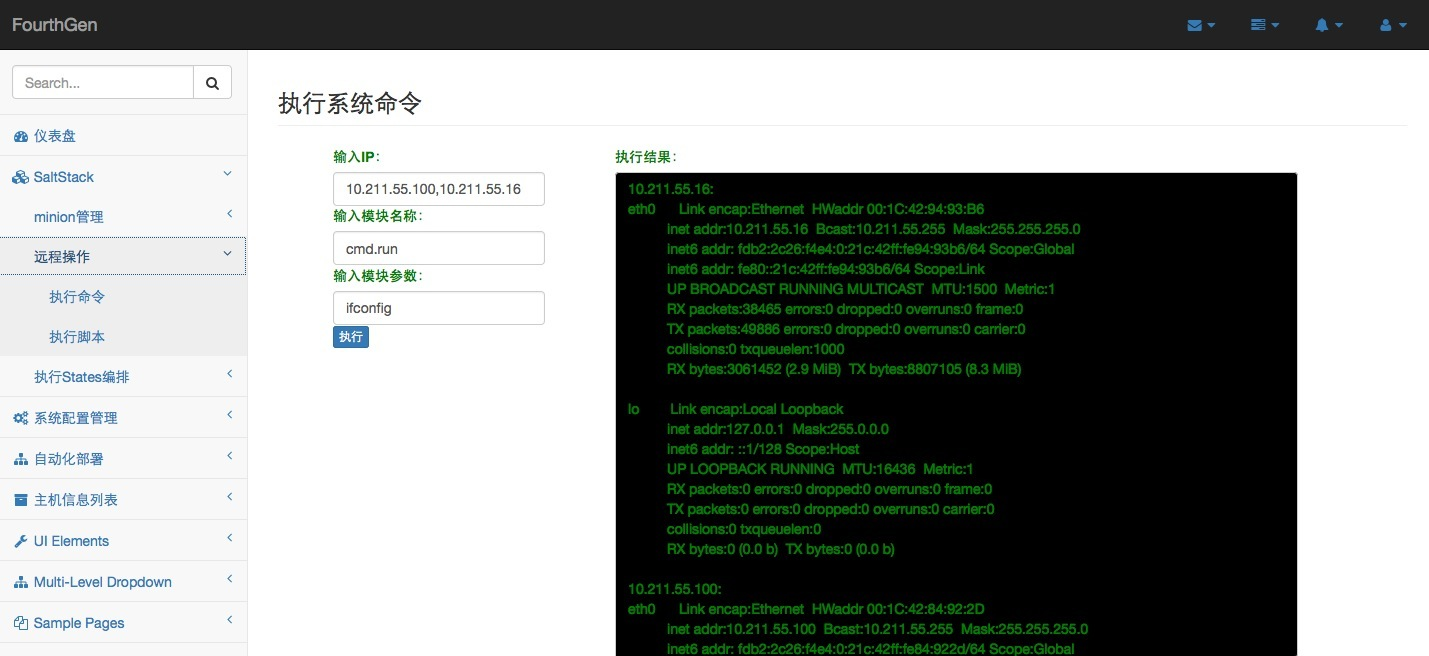
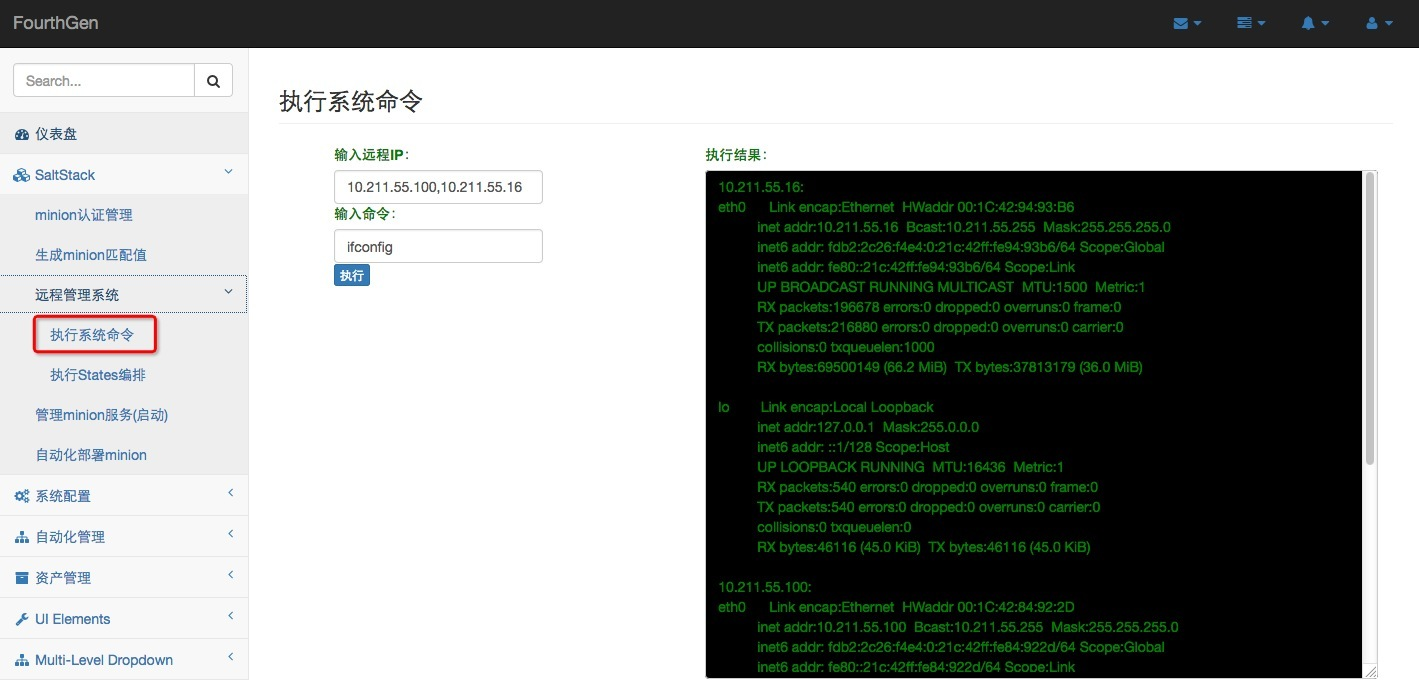
更新web截图

diff --git a/README.md b/README.md
@@ -2,8 +2,14 @@
 #截图
 minion认证管理
 ![image](https://github.com/hyxc/fourthgen/raw/master/screenshots/minion_auth_man.jpg)
+生成minion匹配值
+![image](https://github.com/hyxc/fourthgen/raw/master/screenshots/out_minion_arg.jpg)
 执行远程SHELL
 ![image](https://github.com/hyxc/fourthgen/raw/master/screenshots/remote_execute_shell.jpg)
+执行States编排
+![image](https://github.com/hyxc/fourthgen/raw/master/screenshots/remote_execute_state.jpg)
+自动化部署应用
+![image](https://github.com/hyxc/fourthgen/raw/master/screenshots/autodeploy_app.jpg)
 服务器信息新增
 ![image](https://github.com/hyxc/fourthgen/raw/master/screenshots/server_info_add.jpg)
 物理服务器列表
